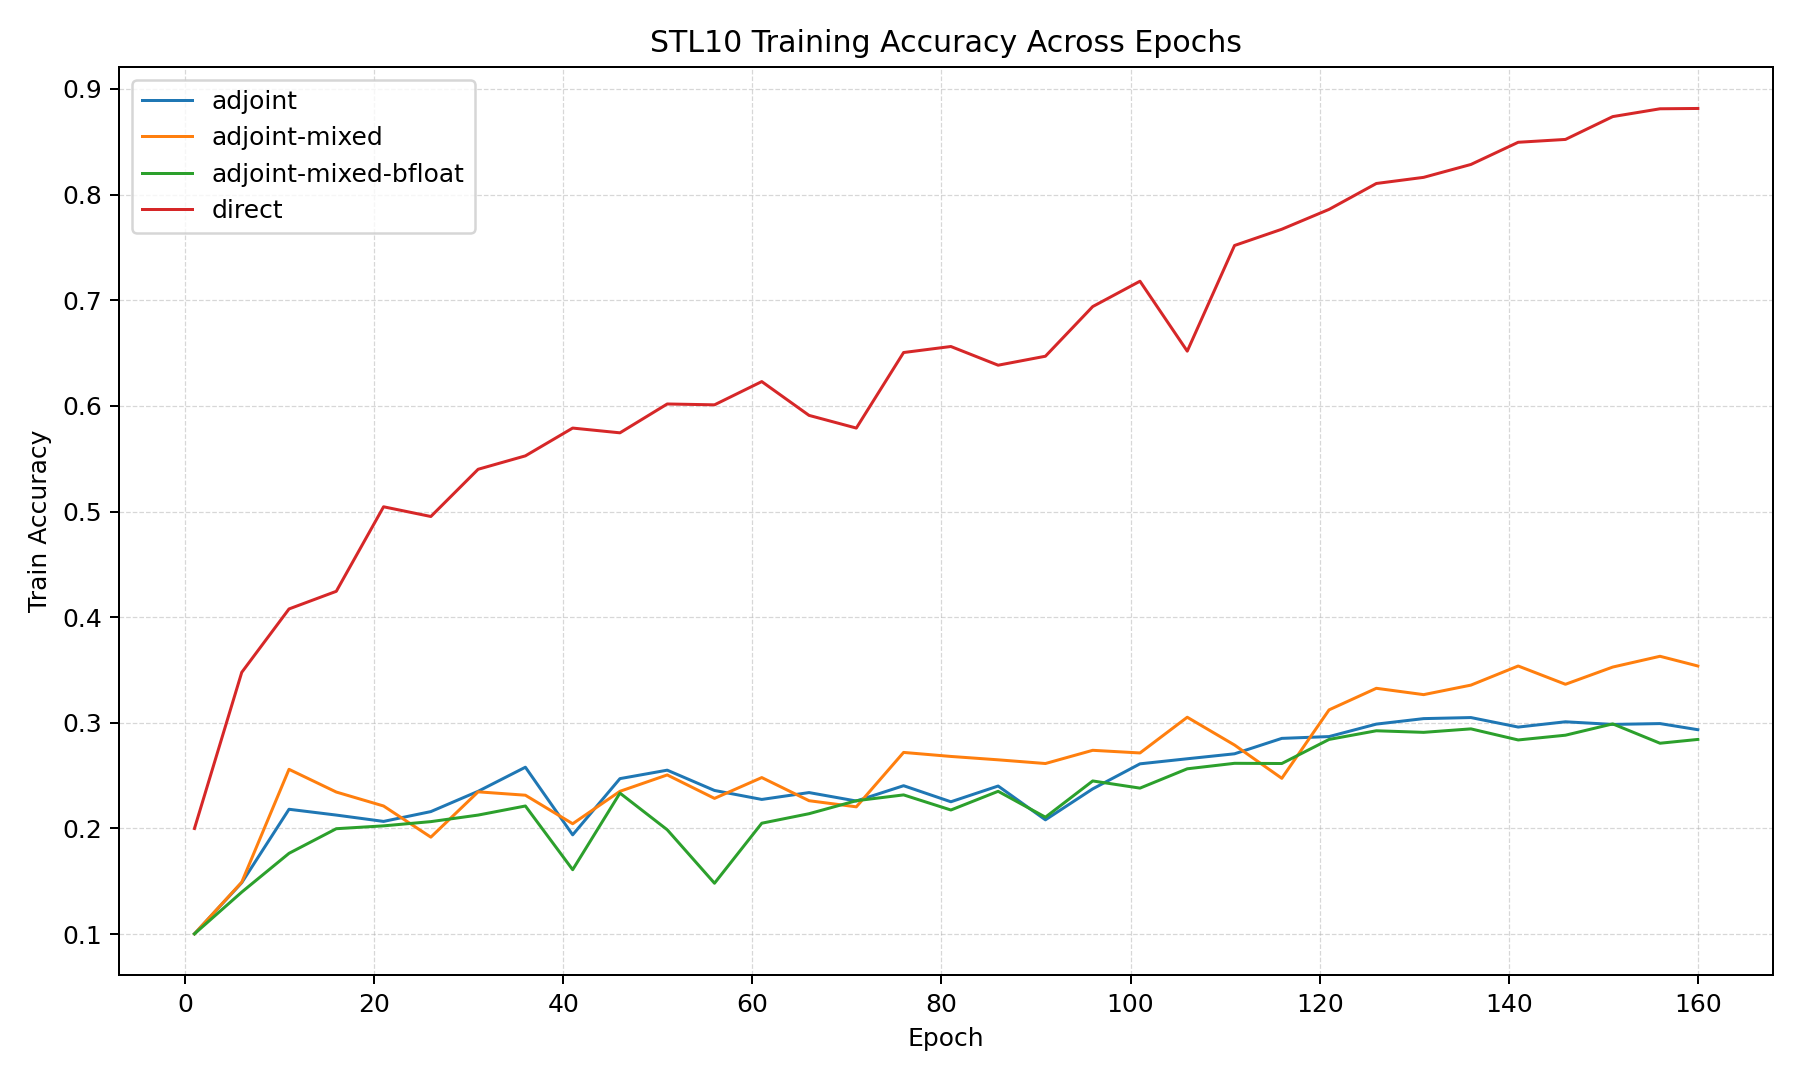
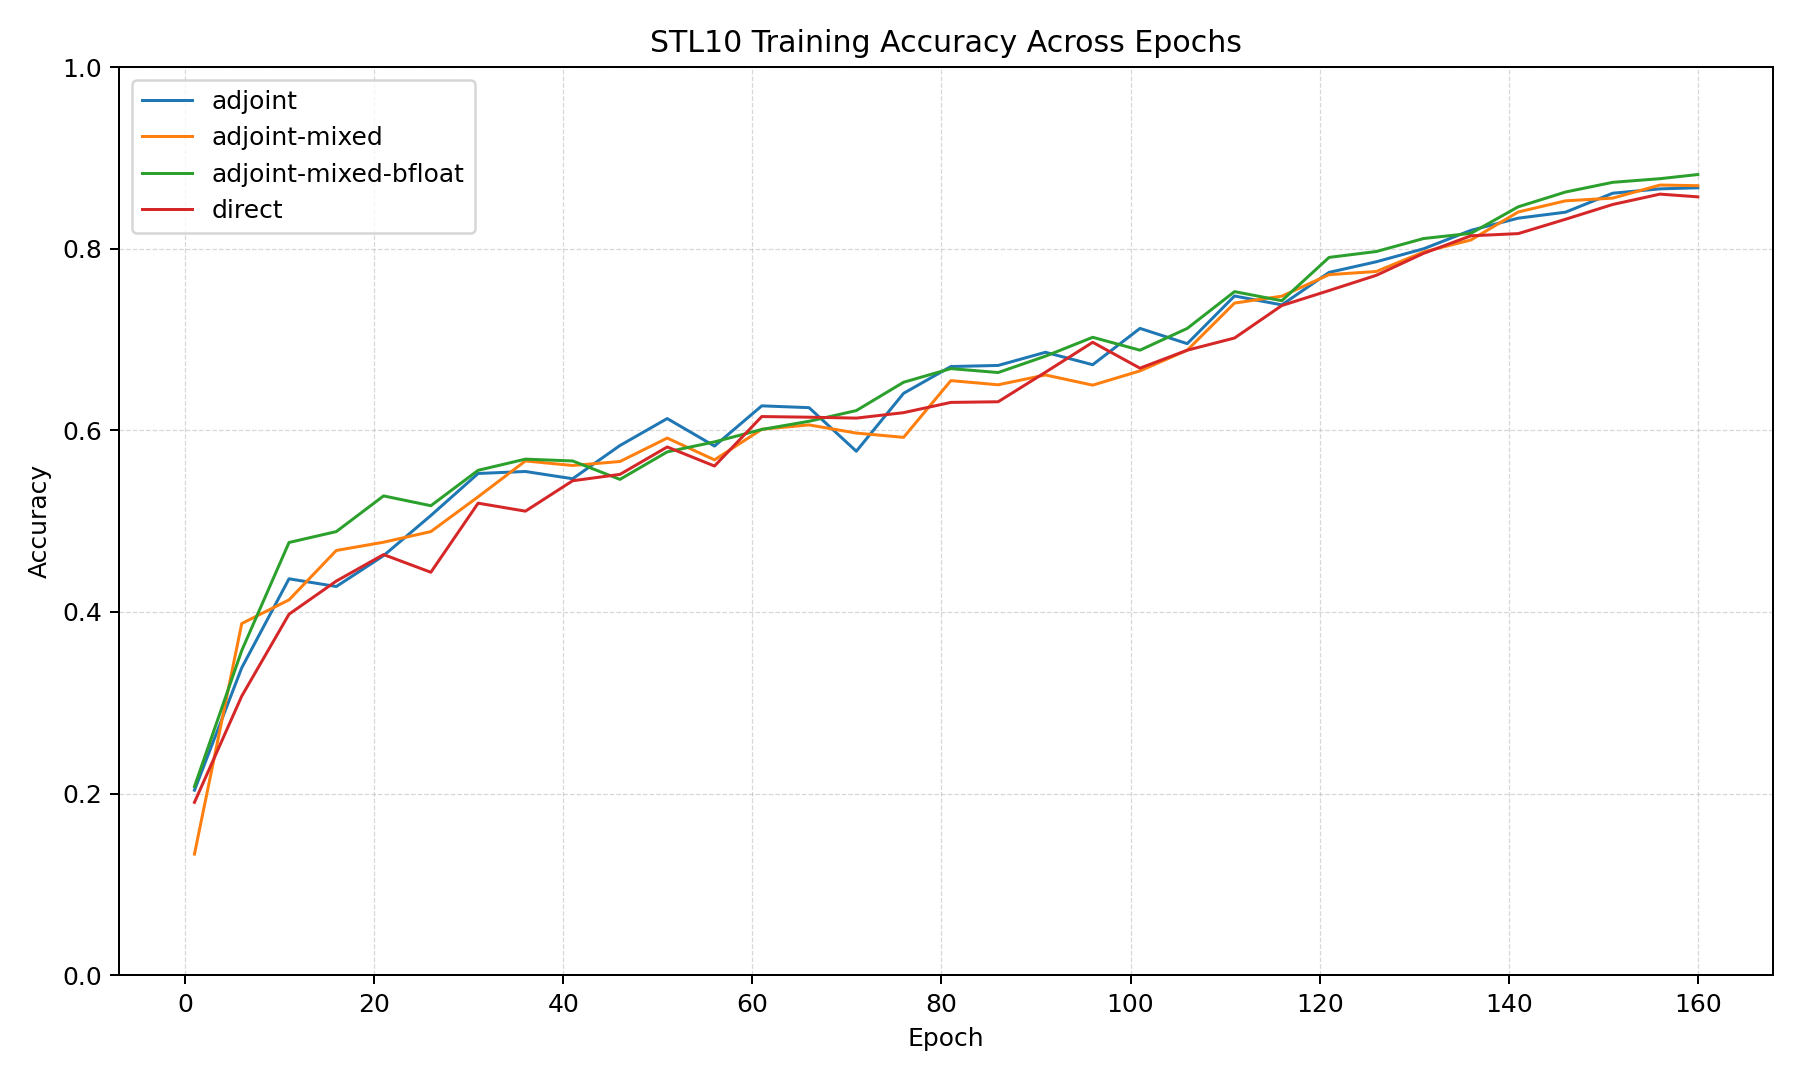
Updated STL10 training summary

diff --git a/examples/STL10/Evaluate Logs/stl10_final_metrics.md b/examples/STL10/Evaluate Logs/stl10_final_metrics.md
@@ -1,13 +1,17 @@
 # STL10 Final Metrics Summary
 
 ```text
-mode                 | Final Val Err | Best Val Err | Train Mem MB | Train Time s | Infer Time s | Infer Mem (?) 
----------------------+---------------+--------------+--------------+--------------+--------------+--------------
-adjoint              | 0.719         | 0.697        | 2728.13      | 4387.60      | 1.6600       | 2594178560.00
-adjoint-mixed        | 0.68          | 0.645        | 1870.70      | 6591.92      | 2.0000       | 1788963840.00
-adjoint-mixed-bfloat | 0.736         | 0.702        | 1833.63      | 4908.39      | 2.0300       | 1788963840.00
-direct               | 0.282         | 0.279        | 4299.64      | 3751.55      | 1.6100       | 1185039360.00
+mode                 | final_train_acc | final_val_err | best_val_err | train_mem_mb | train_time_s | infer_time_s | infer_mem_mb
+---------------------+-----------------+---------------+--------------+--------------+--------------+--------------+-------------
+adjoint              | 0.8672          | 0.295         | 0.288        | 2296.38      | 4553.96      | 1.5000       | 1962.14     
+adjoint-mixed        | 0.8695          | 0.311         | 0.304        | 1209.97      | 3330.27      | 1.1100       | 1034.23     
+adjoint-mixed-bfloat | 0.8818          | 0.299         | 0.291        | 1207.71      | 3122.13      | 1.4700       | 1034.23     
+direct               | 0.8572          | 0.311         | 0.311        | 4299.64      | 4047.21      | 1.7200       | 1130.14     
 ```
+
+Memory savings: $71.9\%$ between direct and adjoint MP (adjoint MP uses less)
+
+
 
 Log files:
 - adjoint: adj_full_training.log
@@ -33,6 +37,8 @@ Experiment Parameters:
     - Momentum: 0.9
     - GPU: NVIDIA H200 (Palmetto)
 
+Parameter count: 3,144,970
+
 Note: 
 - adjoint mode uses adjoint method for gradients but in high precision
 - adjoint-mixed mode uses adjoint method with float16 for mixed precision (and hence the DynamicScaler)
@@ -42,4 +48,5 @@ Note:
 Training Plot (every 5 epochs):
 ![Training plots for STL10 full experiment](./stl10_train_acc.png "STL10 full training curves")
 
-
+Testing Plot (every 5 epochs):
+![Testing plots for STL10 full experiment](./stl10_test_acc.png "STL10 full test curves")
